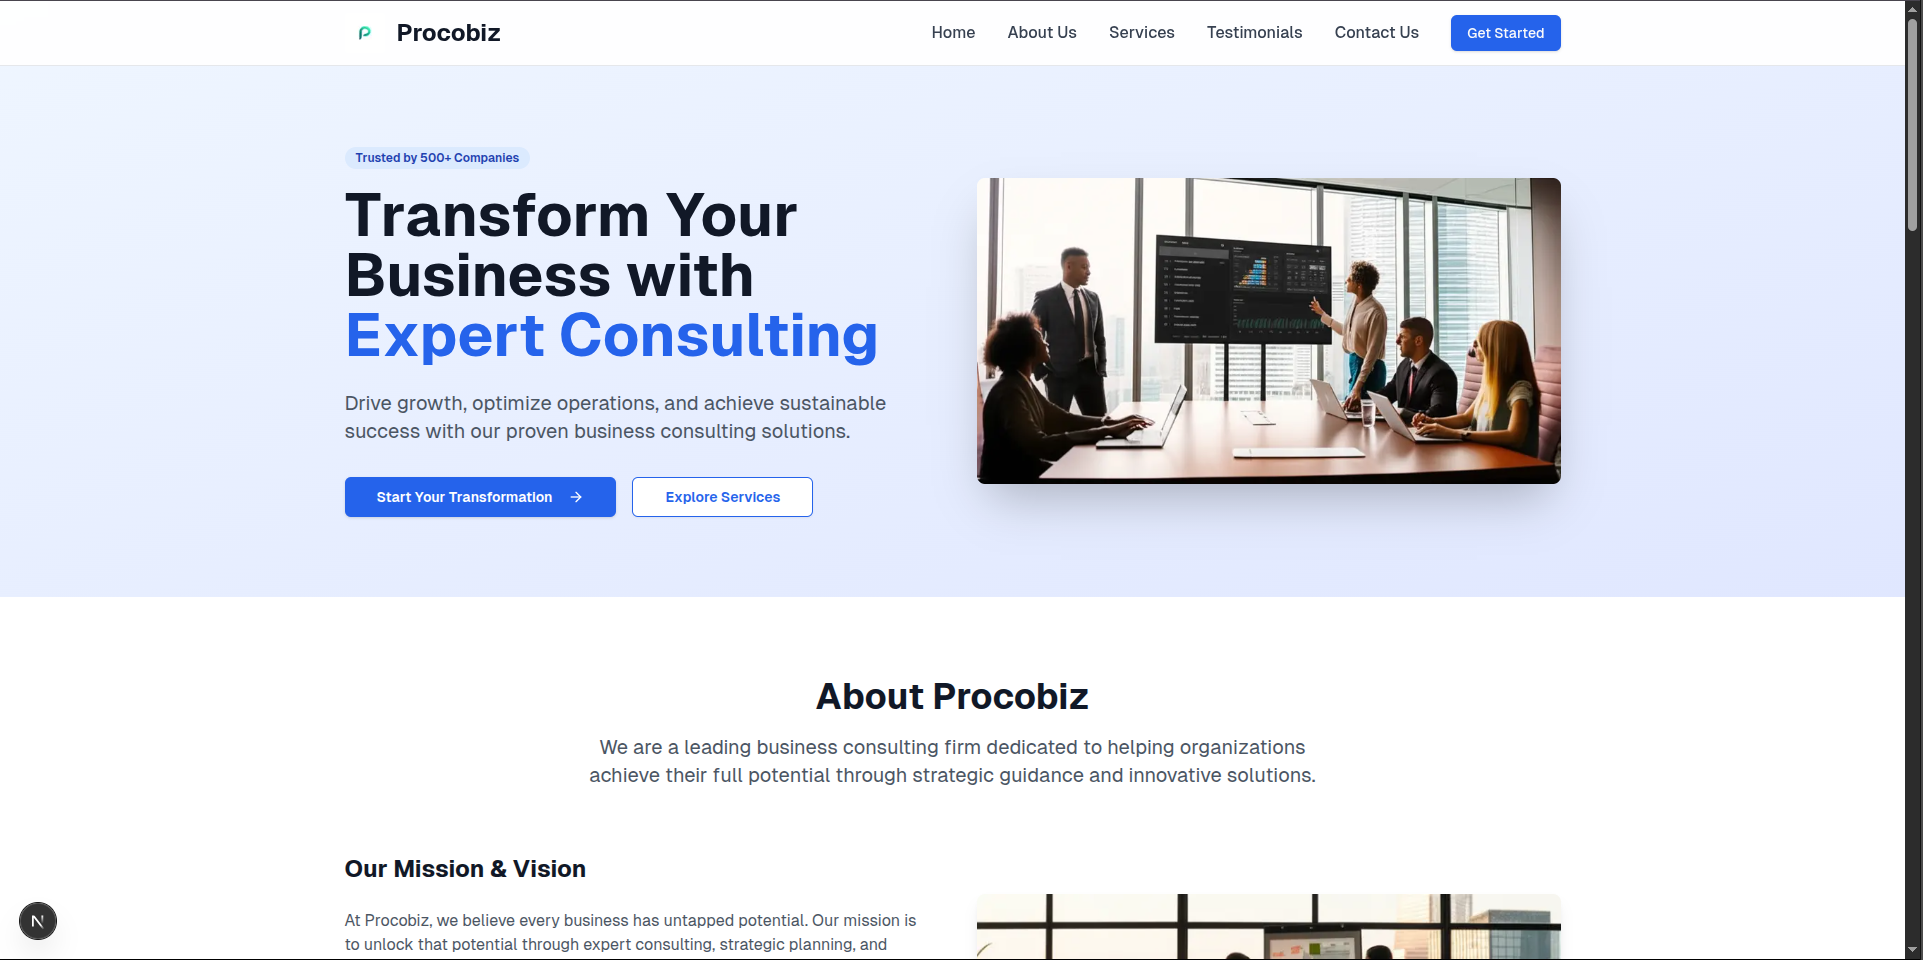
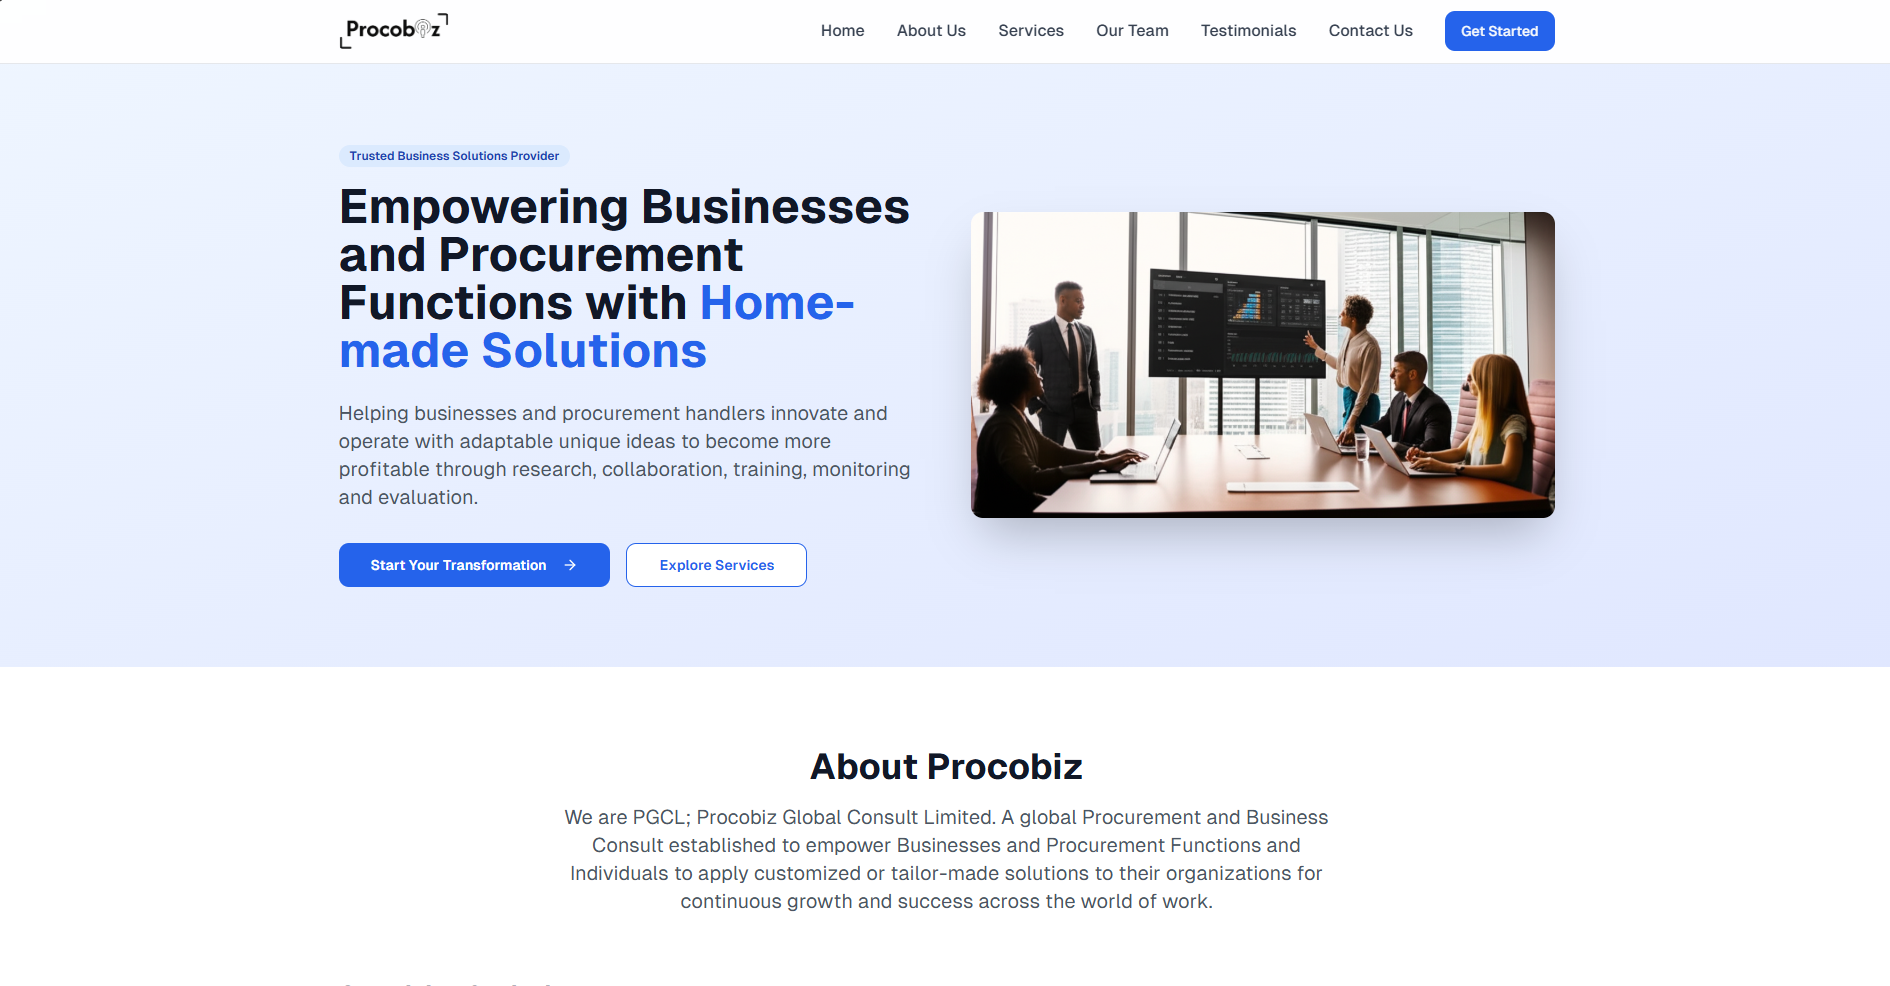
feat: site redesign

diff --git a/app/portfolio/[slug]/page.tsx b/app/portfolio/[slug]/page.tsx
@@ -1,0 +1,47 @@
+import type { Metadata } from "next"
+import { notFound } from "next/navigation"
+import CaseStudyView from "@/components/case-study-view"
+import {
+  getAdjacentCaseStudies,
+  getAllCaseStudySlugs,
+  getCaseStudy,
+} from "@/lib/case-studies"
+import { absoluteUrl } from "@/lib/site"
+
+type PageProps = {
+  params: Promise<{ slug: string }>
+}
+
+export function generateStaticParams() {
+  return getAllCaseStudySlugs().map((slug) => ({ slug }))
+}
+
+export async function generateMetadata({ params }: PageProps): Promise<Metadata> {
+  const { slug } = await params
+  const study = getCaseStudy(slug)
+  if (!study) return {}
+
+  const path = `/portfolio/${slug}`
+
+  return {
+    title: `${study.title} — Case Study`,
+    description: study.seoDescription,
+    alternates: { canonical: path },
+    openGraph: {
+      title: `${study.title} · Umbrelabs`,
+      description: study.seoDescription,
+      url: absoluteUrl(path),
+      images: study.coverImage ? [{ url: study.coverImage }] : undefined,
+    },
+  }
+}
+
+export default async function CaseStudyPage({ params }: PageProps) {
+  const { slug } = await params
+  const study = getCaseStudy(slug)
+  if (!study) notFound()
+
+  const { prev, next } = getAdjacentCaseStudies(slug)
+
+  return <CaseStudyView study={study} prev={prev} next={next} />
+}

diff --git a/app/services/page.tsx b/app/services/page.tsx
@@ -3,6 +3,7 @@ import Link from "next/link"
 import Navigation from "@/components/navigation"
 import Footer from "@/components/footer"
 import Reveal from "@/components/reveal"
+import WaveFlow from "@/components/wave-flow"
 import { absoluteUrl } from "@/lib/site"
 
 export const metadata: Metadata = {
@@ -78,10 +79,10 @@ const services = [
 ]
 
 const steps = [
-  { n: "01", title: "Discover", desc: "We immerse ourselves in your goals, constraints, and users to define what truly matters." },
-  { n: "02", title: "Architect", desc: "We design the system and experience — pragmatic blueprints built for resilience and scale." },
-  { n: "03", title: "Build", desc: "We engineer with rigour and craft, shipping in tight, transparent, measurable iterations." },
-  { n: "04", title: "Evolve", desc: "We monitor, refine, and extend — treating launch as the beginning, not the destination." },
+  { badge: "01", icon: "travel_explore", title: "Discover", desc: "We immerse ourselves in your goals, constraints, and users to define what truly matters." },
+  { badge: "02", icon: "architecture", title: "Architect", desc: "We design the system and experience — pragmatic blueprints built for resilience and scale." },
+  { badge: "03", icon: "construction", title: "Build", desc: "We engineer with rigour and craft, shipping in tight, transparent, measurable iterations." },
+  { badge: "04", icon: "trending_up", title: "Evolve", desc: "We monitor, refine, and extend — treating launch as the beginning, not the destination." },
 ]
 
 export default function ServicesPage() {
@@ -148,22 +149,14 @@ export default function ServicesPage() {
         </section>
 
         {/* ─────────────── Process ─────────────── */}
-        <section className="px-5 sm:px-8 py-24 bg-surface border-y border-outline-variant/60">
-          <div className="max-w-[1240px] mx-auto">
+        <section className="relative px-5 sm:px-8 py-24 bg-surface border-y border-outline-variant/60 overflow-hidden">
+          <div className="ambient-orb" style={{ width: "620px", height: "620px", top: "-220px", left: "-160px", background: "radial-gradient(circle, rgba(255,191,0,0.10), transparent 70%)" }} />
+          <div className="relative max-w-[1240px] mx-auto">
             <Reveal className="max-w-2xl mb-16">
               <span className="eyebrow">How we work</span>
               <h2 className="text-h1 text-on-surface mt-4">A considered process, end to end.</h2>
             </Reveal>
-            <div className="grid grid-cols-1 sm:grid-cols-2 lg:grid-cols-4 gap-x-8 gap-y-12">
-              {steps.map((step, i) => (
-                <Reveal key={step.n} delay={i * 90}>
-                  <span className="number-serif text-gold text-2xl">{step.n}</span>
-                  <div className="h-px w-full bg-outline-variant/70 my-5" />
-                  <h3 className="text-h3 text-on-surface">{step.title}</h3>
-                  <p className="text-body-md text-on-surface-variant mt-3 leading-relaxed">{step.desc}</p>
-                </Reveal>
-              ))}
-            </div>
+            <WaveFlow items={steps} ariaLabel="Our process: Discover, Architect, Build, and Evolve." />
           </div>
         </section>
 

diff --git a/app/portfolio/page.tsx b/app/portfolio/page.tsx
@@ -20,6 +20,8 @@ type Project = {
   wide?: boolean
   /** Optional screenshot in /public/projects. Falls back to the gradient if omitted/missing. */
   image?: string
+  /** When set, "View case study" links to /portfolio/<slug> */
+  slug?: string
 }
 
 const projects: Project[] = [
@@ -34,17 +36,19 @@ const projects: Project[] = [
     to: "#4a3a12",
     wide: true,
     image: "/projects/hostella.png",
+    slug: "hostella",
   },
   {
     id: "02",
     category: "Process Optimisation",
     title: "Procobiz",
     desc: "A modern corporate website for a procurement and supply company, built with a focus on clear service and capability presentation, professional brand positioning and credibility, responsive, performance-optimized UI, and Scalable architecture for future content and growth",
-    tech: ["Next.js", "Tailwind CSS", "TypeScript", "Shadcn UI", "Lucide Icons", "Vercel"],
+    tech: ["Next.js", "Tailwind CSS", "TypeScript", "Shadcn UI", "Vercel"],
     result: "Completed",
     from: "#0b3b38",
     to: "#0b6b63",
     image: "/projects/procobiz.png",
+    slug: "procobiz",
   },
   {
     id: "03",
@@ -133,7 +137,7 @@ export default function PortfolioPage() {
           <div className="max-w-[1240px] mx-auto grid grid-cols-1 md:grid-cols-2 gap-5">
             {filtered.map((p, i) => (
               <Reveal key={p.id} delay={i * 70} className={p.wide ? "md:col-span-2" : ""}>
-                <Link href="/contact" className="card-elegant group block overflow-hidden h-full">
+                <Link href={p.slug ? `/portfolio/${p.slug}` : "/contact"} className="card-elegant group block overflow-hidden h-full">
                   <div
                     className={`relative overflow-hidden ${p.wide ? "aspect-21/9" : "aspect-16/10"}`}
                     style={{ background: `linear-gradient(135deg, ${p.from}, ${p.to})` }}

diff --git a/public/projects/README.md b/public/projects/README.md
@@ -7,12 +7,35 @@ via the `image` field on a project, e.g.:
 image: "/projects/hostella.png"
 ```
 
-Guidelines for the best look:
+## Case study detail pages
+
+Full case studies live at `/portfolio/<slug>` (e.g. `/portfolio/hostella`, `/portfolio/procobiz`).
+Content is defined in `lib/case-studies.ts`; gallery images can be organised per project:
+
+```
+public/projects/
+  hostella.png              ← card + case study cover (existing)
+  procobiz.png              ← card + case study cover (existing)
+  hostella/
+    dashboard.png           ← optional gallery shot
+    booking.png
+    mobile.png
+  procobiz/
+    procobiz_services.png
+    procobiz_about.png
+    procobiz_contact.png
+```
+
+Placeholder frames on case study pages show the expected filename until you add the file.
+PNG, JPG, or WebP all work. Aim for ~1600px wide for crisp display.
+
+Guidelines for portfolio **cards**:
 - Use a wide-ish screenshot. Cards crop to ~21:9 (featured/wide) or ~16:10 (standard),
   anchored to the top of the image (`object-top`), so keep the important content near the top.
-- PNG or JPG/WebP all work. Aim for ~1600px wide for crisp display without huge files.
-- File name should match what you set in the `image` field (currently `hostella.png` for Hostella).
+- If an image is missing or fails to load, the card automatically falls back to the
+  branded gradient + serif number, so nothing breaks.
 
-If an image is missing or fails to load, the card automatically falls back to the
-branded gradient + serif number, so nothing breaks.
-```
+To add a new case study:
+1. Add an entry to `caseStudies` in `lib/case-studies.ts`
+2. Set `slug` on the matching project in `app/portfolio/page.tsx`
+3. Drop screenshots under `public/projects/<slug>/` as needed